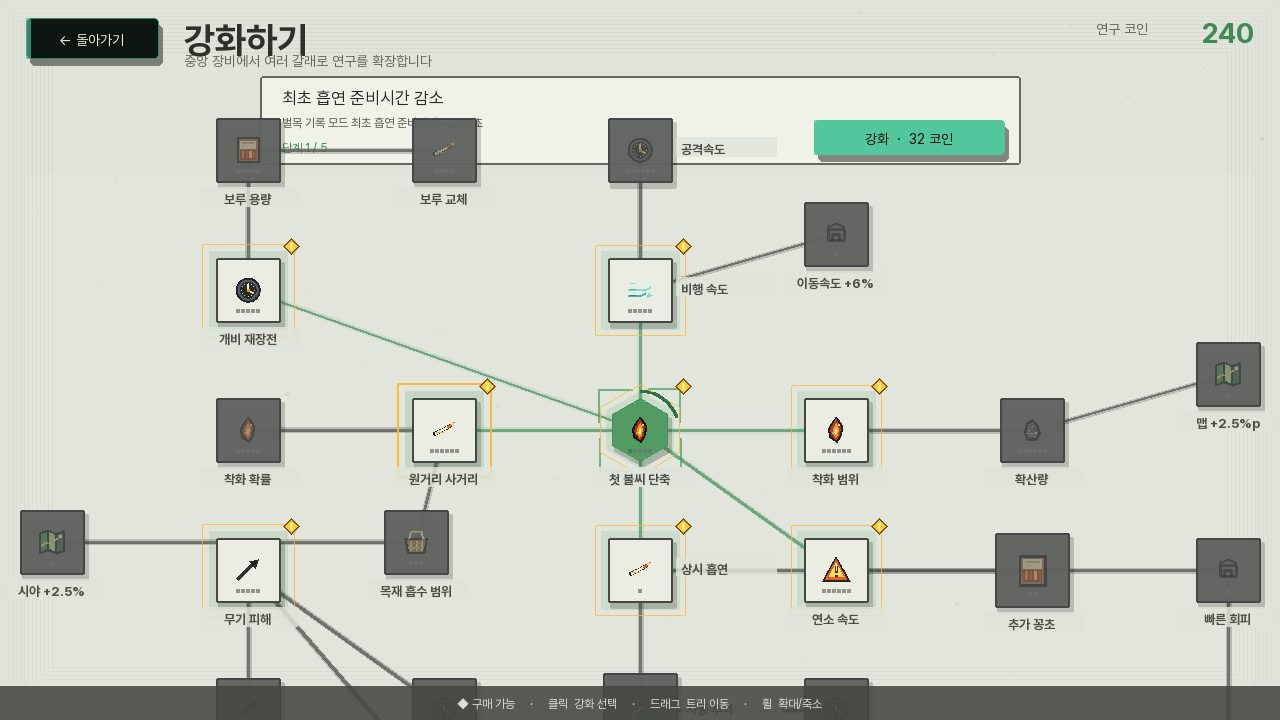
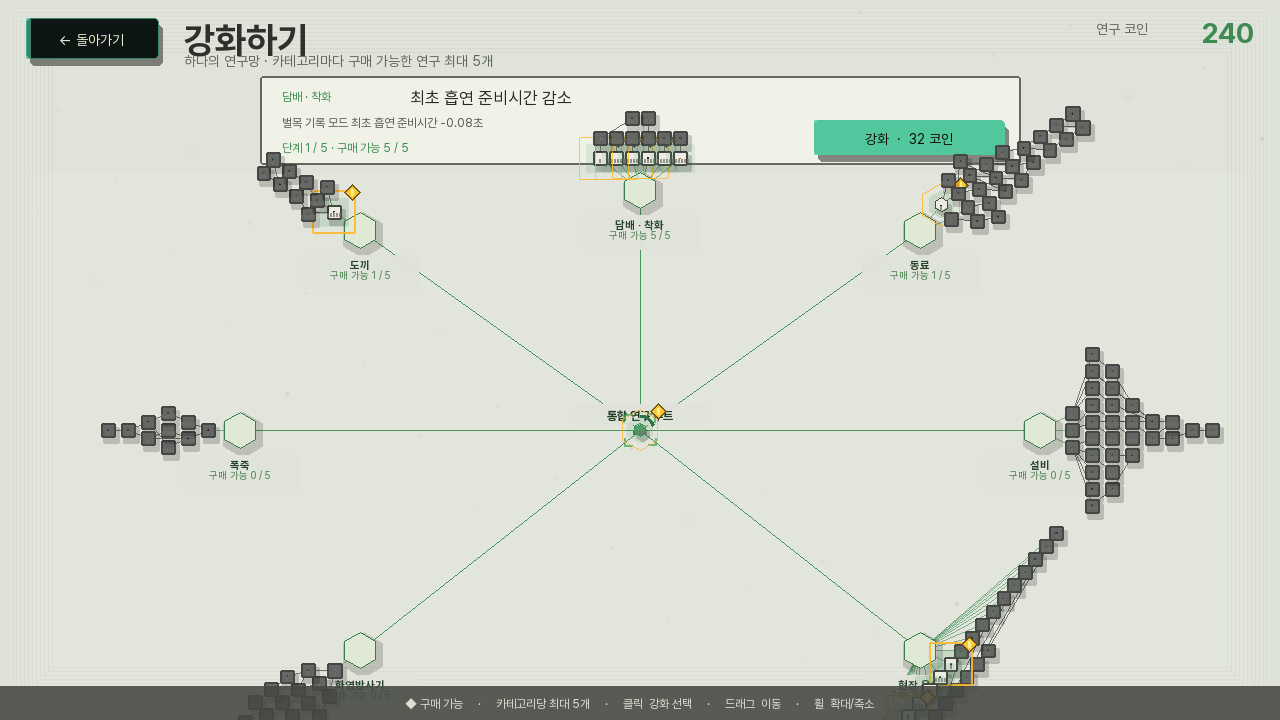
Rebuild research board from a central root

diff --git a/scripts/render_score_trait_board.py b/scripts/render_score_trait_board.py
@@ -12,4 +12,6 @@ zoomout=render_ui(OUT/'score-trait-board-zoomout-draws.json',(1280,720))
 zoomout.save(OUT/'score-trait-board-zoomout-v1.png')
 wide=render_ui(OUT/'score-trait-board-wide-draws.json',(2048,1038))
 wide.save(OUT/'score-trait-board-wide-v2.png')
-print('SCORE_TRAIT_BOARD_RENDER_OK 1280x720 default+zoomout, 2048x1038 wide, window=none')
+category=render_ui(OUT/'score-trait-board-category-draws.json',(1280,720))
+category.save(OUT/'score-trait-board-category-v1.png')
+print('SCORE_TRAIT_BOARD_RENDER_OK 1280x720 default+zoomout+category, 2048x1038 wide, window=none')

diff --git a/docs/CLEARCUT_UI_REDESIGN.md b/docs/CLEARCUT_UI_REDESIGN.md
@@ -26,6 +26,7 @@ HUD를 시계·나무판·표찰 같은 소품으로 디자인하지 않는다. 
 - 선택한 노드의 이름·실제 효과·현재 단계·구매 비용은 트리 바로 위 한 영역에 표시한다.
 - 흡연자 트리는 중앙 루트에서 기존 상·하·좌·우 1차 강화가 뻗고, 기존 방향의 2차 강화는 같은 방향으로 이어진다. 꽁초의 착지 즉시 타격 반응은 기본 동작이므로 연구 노드로 표시하지 않는다.
 - 활성 연구는 한 장의 통합 연구망에 모두 남긴다. 노드 총개수는 줄이지 않으며 `담배·착화 / 도끼 / 폭죽 / 화염방사기 / 동료 / 설비 / 현장 운영`으로 분류한다. 명시된 선행조건을 만족한 노드가 한 카테고리에서 5개를 넘으면 기존 작성 순서의 앞선 5개만 구매 가능하고, 하나를 완료하면 다음 노드가 그 자리를 이어받는다. 전역 구매 가능 개수는 제한하지 않는다.
+- 실제 보드 좌표도 중앙 `첫 불씨 단축` 통합 루트에서 일곱 카테고리 허브가 방사형으로 뻗고, 각 허브 바깥쪽에 해당 카테고리 노드만 계층형으로 전진하도록 배치한다. 카테고리 사이 공간을 넓게 비우고 전체 조망에서는 허브명만, 확대했을 때 개별 노드명을 표시한다. 다른 카테고리를 가로지르는 장거리 선은 그리지 않는다.
 - 구매 완료·구매 가능 경로는 초록, 잠긴 경로는 회색으로 구분한다. 구조선에 붉은색을 쓰지 않는다.
 - 연구 화면은 참고 UI와 같은 밝은 회백색 작업면과 옅은 비네트·먼지점만 사용한다. 숲 사진과 게임 월드 배경은 표시하지 않는다.
 

diff --git a/docs/SYSTEM_MAP.md b/docs/SYSTEM_MAP.md
@@ -71,6 +71,8 @@
 
 강화하기 화면은 이 모든 노드를 삭제·통합하지 않고 한 연구망에 유지한다. 각 노드는 `담배·착화 / 도끼 / 폭죽 / 화염방사기 / 동료 / 설비 / 현장 운영` 중 하나에 속하며, 명시된 선행조건을 만족한 구매 후보는 카테고리마다 기존 작성 순서 기준 최대 5개까지 전진한다. 따라서 전역 후보 수는 카테고리 수에 따라 늘 수 있지만 한 종류의 연구가 화면을 독점하지 않는다.
 
+보드의 실제 공간 구조는 중앙 `첫 불씨 단축` 루트에서 일곱 카테고리 허브가 방사형으로 갈라지고, 허브 바깥쪽에 해당 카테고리 내부 선행관계가 넓게 펼쳐지는 형태다. 전체 조망에서는 중앙 루트와 허브를 읽고, 확대하면 개별 노드명과 내부 연결을 읽는다.
+
 ---
 
 ## 문맥 자동 무기 — 슬롯·인벤토리 없음
